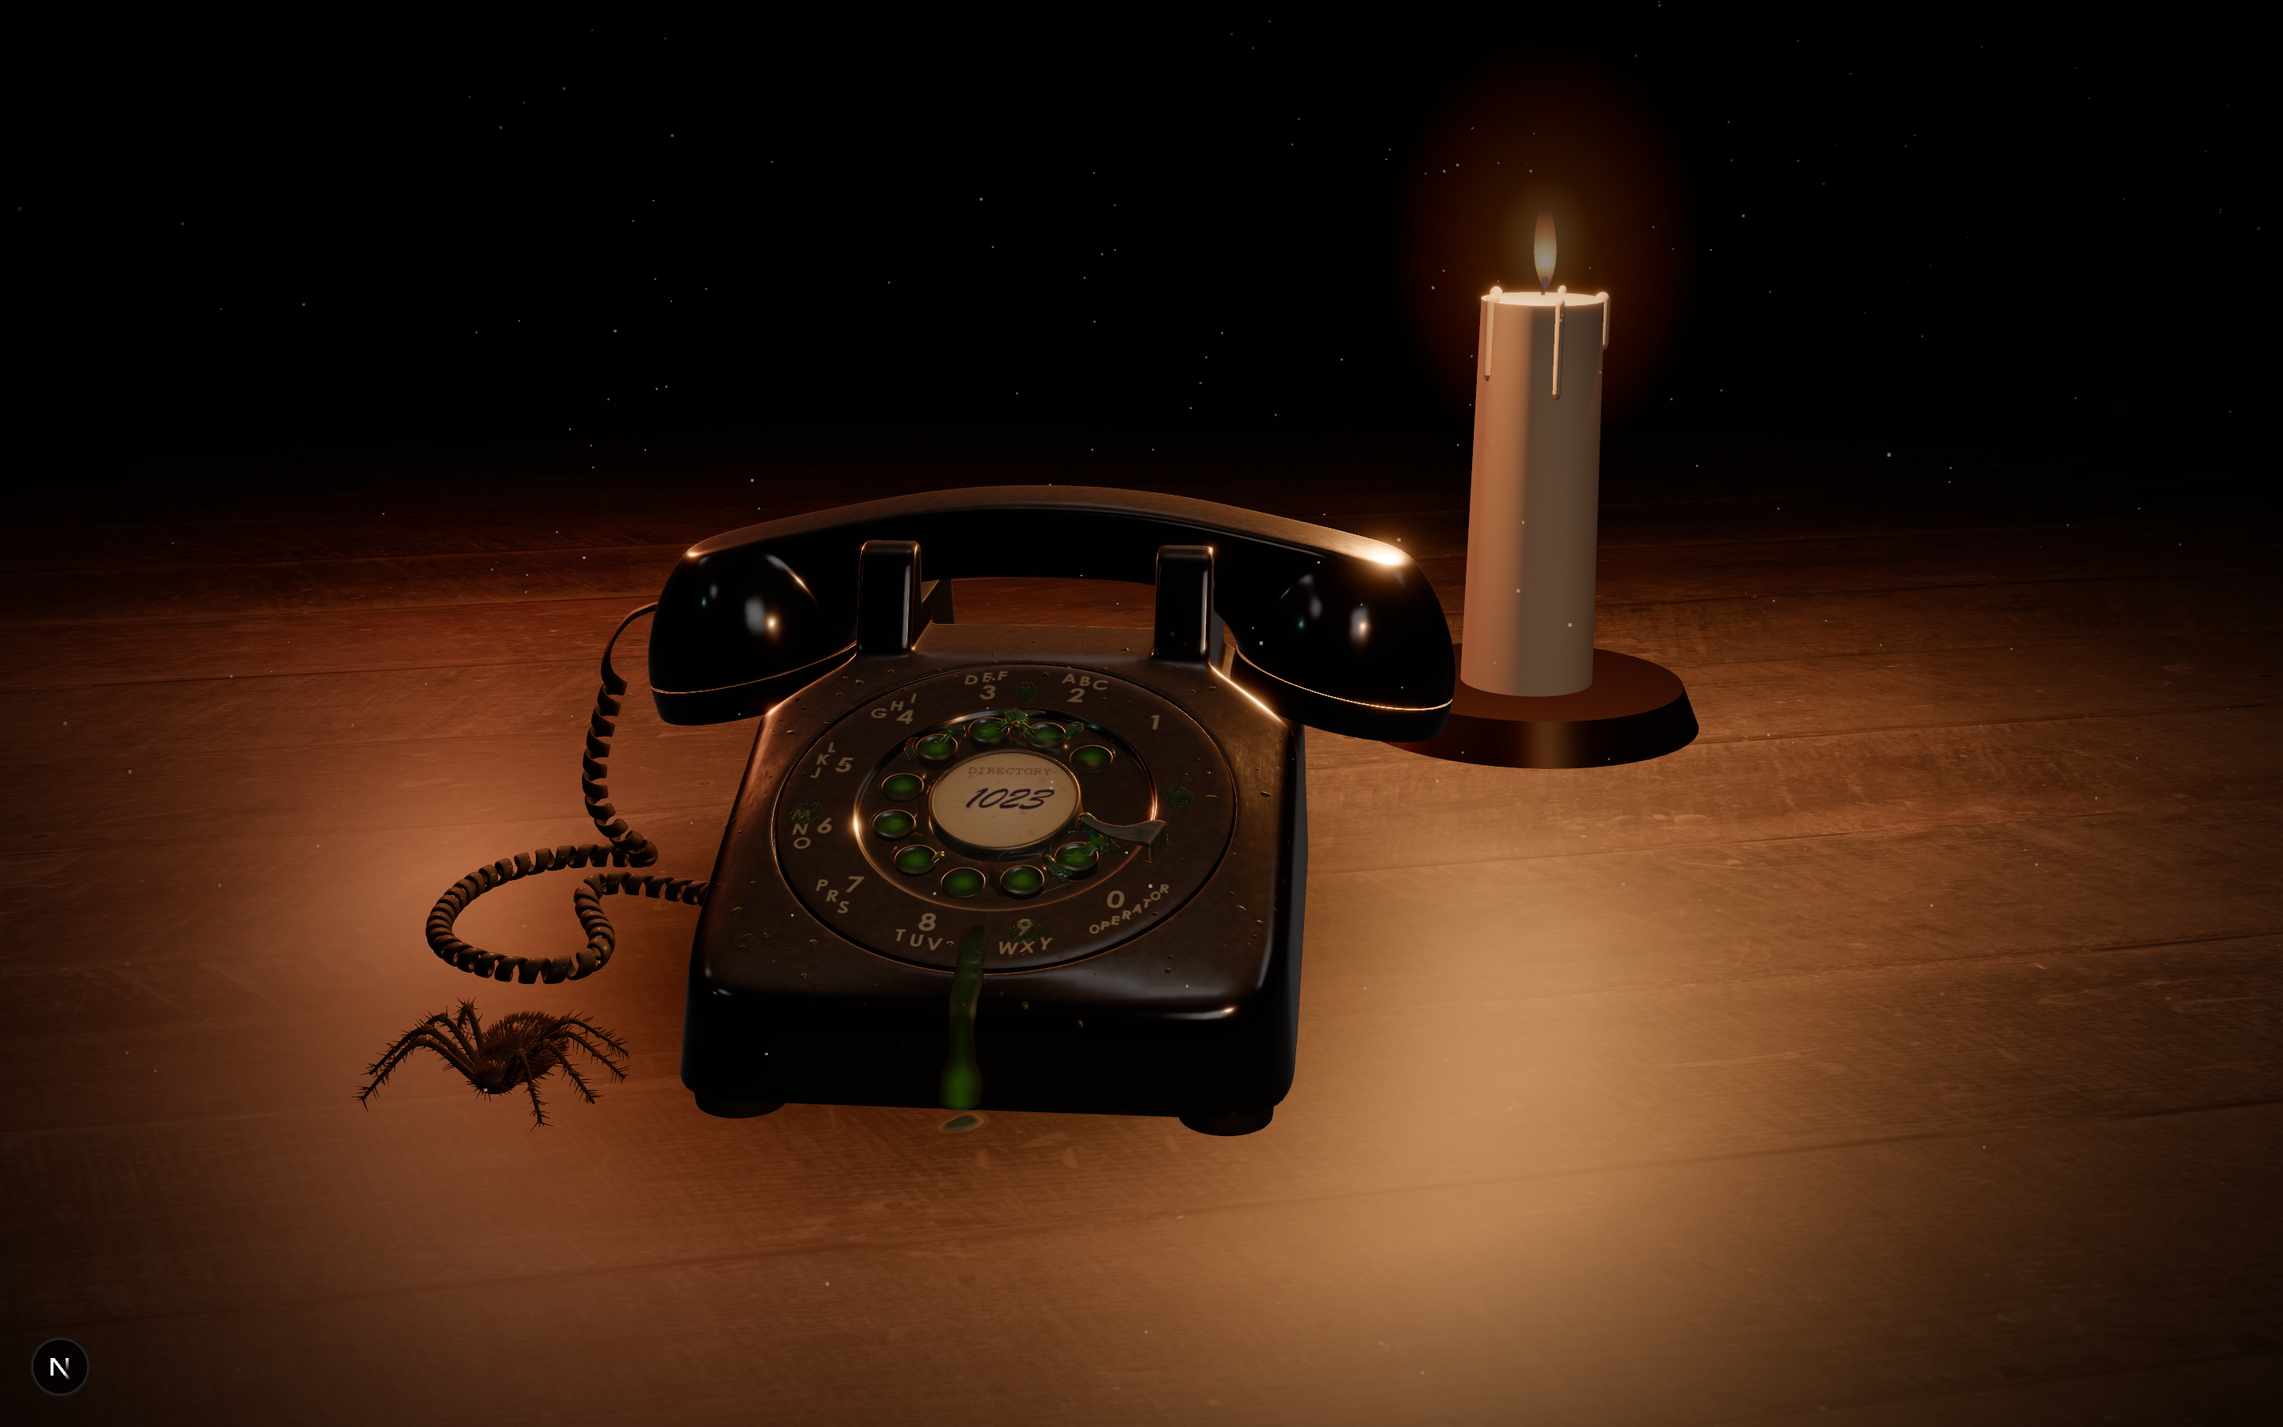
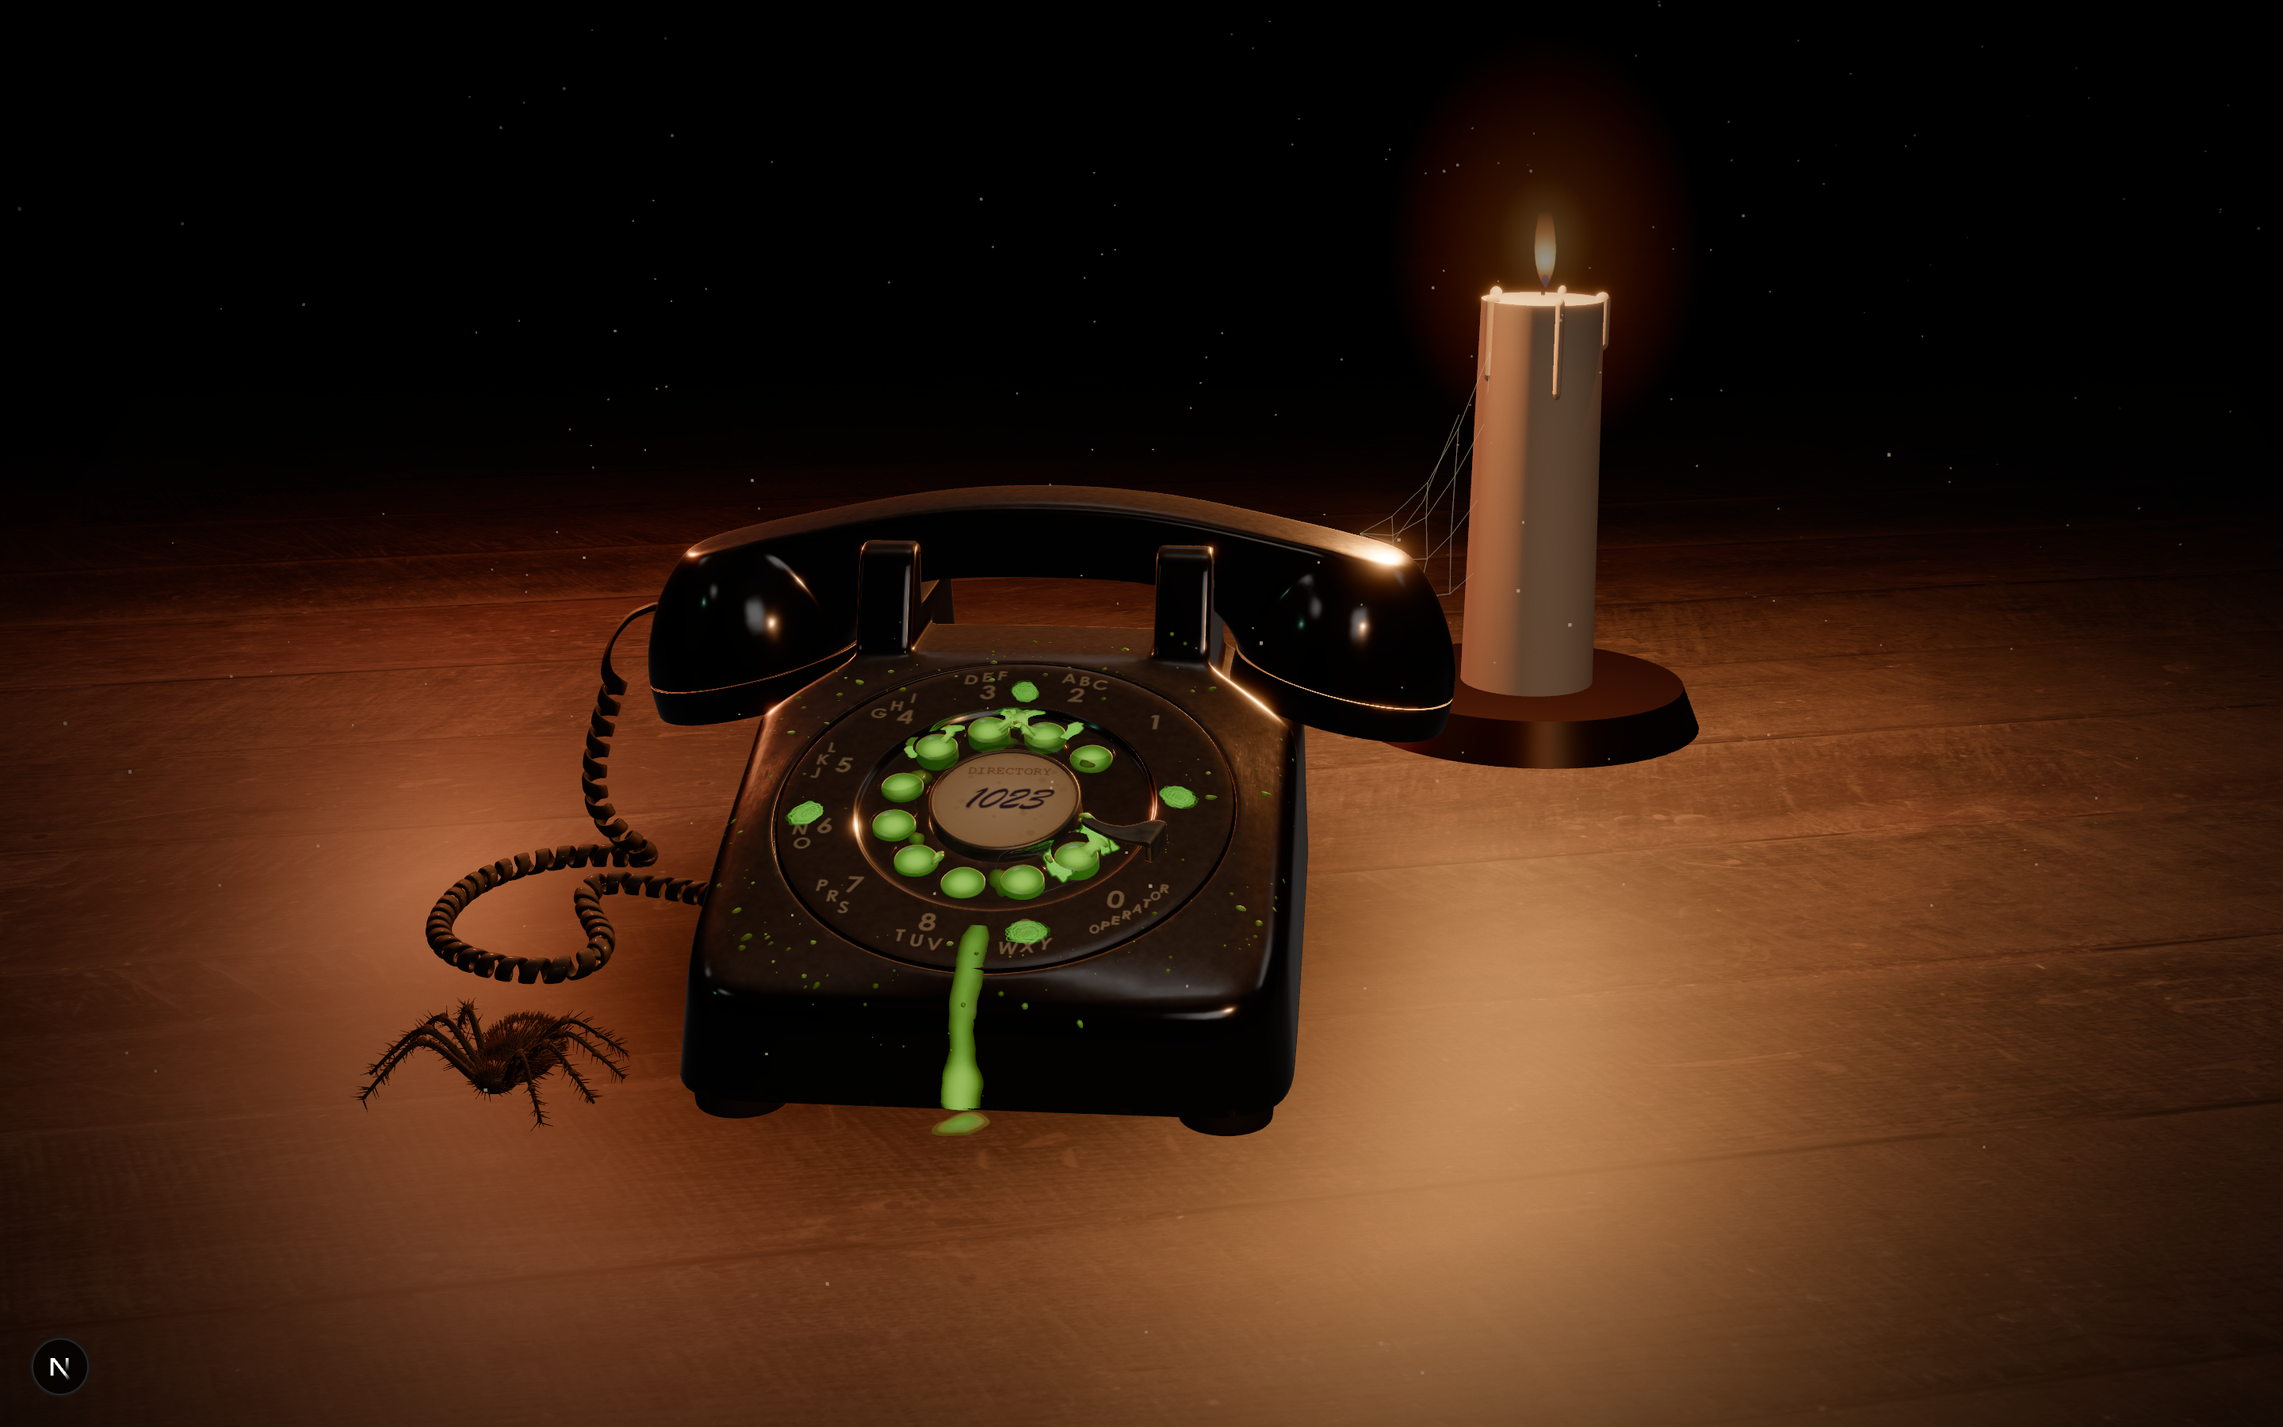
fix: keep painted goo off the card rim and find the card in render checks

Changed region(s): [[0.3438, 0.4667, 0.5312, 0.8089]]

diff --git a/scripts/greenShapes.ts b/scripts/greenShapes.ts
@@ -13,6 +13,8 @@ export type Shape = {
   aspect: number;
   cx: number;
   cy: number;
+  /** Cut by the edge of the shot, so its true outline is unknown. */
+  edge: boolean;
 };
 
 /** Slime green: clearly greener than red or blue, and not black. Orange candle glints and brown wood do not pass. */
@@ -46,10 +48,12 @@ export function greenShapes(image: Raster, minArea: number): Shape[] {
     let sxx = 0;
     let syy = 0;
     let sxy = 0;
+    let edge = false;
     while (stack.length) {
       const at = stack.pop() as number;
       const x = at % width;
       const y = (at - x) / width;
+      if (x === 0 || y === 0 || x === width - 1 || y === height - 1) edge = true;
       area++;
       sx += x;
       sy += y;
@@ -79,24 +83,94 @@ export function greenShapes(image: Raster, minArea: number): Shape[] {
     const gap = Math.sqrt(((a - d) / 2) ** 2 + b * b);
     const long = mid + gap;
     const short = Math.max(mid - gap, 1e-9);
-    shapes.push({ area, aspect: Math.sqrt(long / short), cx, cy });
+    shapes.push({ area, aspect: Math.sqrt(long / short), cx, cy, edge });
   }
   return shapes;
 }
 
-/** How many green pixels fall inside an ellipse. Used to check the slime stays off the centre card. */
-export function greenInside(
-  image: Raster,
-  ellipse: { cx: number; cy: number; rx: number; ry: number },
-): number {
-  const mask = greenMask(image);
-  let count = 0;
-  for (let y = 0; y < image.height; y++) {
-    for (let x = 0; x < image.width; x++) {
-      const inside =
-        ((x - ellipse.cx) / ellipse.rx) ** 2 + ((y - ellipse.cy) / ellipse.ry) ** 2 <= 1;
-      if (inside && mask[y * image.width + x]) count++;
+/** The card's warm cream face. The black ink and the dark wood around it do not pass. */
+function isCardFace(r: number, g: number, b: number): boolean {
+  return r > 100 && r > g && g > b && r - b > 25;
+}
+
+/**
+ * The card as it lies in the shot: its face flood filled from `seed`, with every row and column
+ * span closed so the ink counts as card, then grown by `rim` pixels to take in the card's rim.
+ * Taken from the shot itself so it follows the perspective of the camera, which a fixed ellipse
+ * cannot: the far half of the card is narrower than the near half.
+ */
+export function cardMask(image: Raster, seed: { x: number; y: number }, rim: number): Uint8Array {
+  const { width, height, data } = image;
+  const face = new Uint8Array(width * height);
+  const stack = [seed.y * width + seed.x];
+  face[stack[0] as number] = 1;
+  while (stack.length) {
+    const at = stack.pop() as number;
+    const x = at % width;
+    const y = (at - x) / width;
+    for (const next of [
+      x > 0 ? at - 1 : -1,
+      x < width - 1 ? at + 1 : -1,
+      y > 0 ? at - width : -1,
+      y < height - 1 ? at + width : -1,
+    ]) {
+      const p = next * 4;
+      if (
+        next >= 0 &&
+        !face[next] &&
+        isCardFace(data[p] ?? 0, data[p + 1] ?? 0, data[p + 2] ?? 0)
+      ) {
+        face[next] = 1;
+        stack.push(next);
+      }
     }
   }
+  const closed = face.slice();
+  const fillSpans = (lines: number, along: number, index: (line: number, k: number) => number) => {
+    for (let line = 0; line < lines; line++) {
+      let first = -1;
+      let last = -1;
+      for (let k = 0; k < along; k++) {
+        if (face[index(line, k)]) {
+          if (first < 0) first = k;
+          last = k;
+        }
+      }
+      for (let k = first; first >= 0 && k <= last; k++) closed[index(line, k)] = 1;
+    }
+  };
+  fillSpans(height, width, (y, x) => y * width + x);
+  fillSpans(width, height, (x, y) => y * width + x);
+  const mask = new Uint8Array(width * height);
+  for (let y = 0; y < height; y++) {
+    for (let x = 0; x < width; x++) {
+      if (!closed[y * width + x]) continue;
+      for (let dy = -rim; dy <= rim; dy++) {
+        for (let dx = -rim; dx <= rim; dx++) {
+          const X = x + dx;
+          const Y = y + dy;
+          if (dx * dx + dy * dy <= rim * rim && X >= 0 && X < width && Y >= 0 && Y < height)
+            mask[Y * width + X] = 1;
+        }
+      }
+    }
+  }
+  return mask;
+}
+
+/**
+ * Where the card is in the render checks' dial close-up (1440 by 900 at 4x, clipped to the dial):
+ * a point on the face below the "1023", and the rim's width, about 12 shot pixels at top and bottom.
+ * A fixed ellipse used to stand in for the card, but it took in the gap round it, where the pools
+ * in the far holes show once the goo is bright.
+ */
+export const CLOSE_UP_CARD = { seed: { x: 456, y: 330 }, rim: 10 } as const;
+
+/** How many green pixels lie on the card, its face and rim, found from `seed` on the face. */
+export function greenOnCard(image: Raster, seed: { x: number; y: number }, rim: number): number {
+  const card = cardMask(image, seed, rim);
+  const green = greenMask(image);
+  let count = 0;
+  for (let i = 0; i < card.length; i++) if (card[i] && green[i]) count++;
   return count;
 }

diff --git a/scripts/greenShapes.test.ts b/scripts/greenShapes.test.ts
@@ -1,6 +1,6 @@
 // @vitest-environment node
 import { describe, it, expect } from 'vitest';
-import { greenInside, greenShapes, type Raster } from './greenShapes';
+import { greenOnCard, greenShapes, type Raster } from './greenShapes';
 
 /** A black image with green painted by `paint(x, y)`. */
 function image(width: number, height: number, paint: (x: number, y: number) => boolean): Raster {
@@ -42,6 +42,12 @@ describe('greenShapes', () => {
     expect(greenShapes(image(200, 200, paint), 200)).toHaveLength(2);
   });
 
+  it('marks a shape cut by the edge of the shot, and only that one', () => {
+    const paint = (x: number, y: number) => disc(100, 2, 30)(x, y) || disc(100, 120, 30)(x, y);
+    const shapes = greenShapes(image(200, 200, paint), 100);
+    expect(shapes.map((s) => s.edge).sort()).toEqual([false, true]);
+  });
+
   it('does not count grey, brown or orange as green', () => {
     const data = new Uint8Array(40 * 40 * 4);
     for (let i = 0; i < data.length; i += 4) {
@@ -54,16 +60,50 @@ describe('greenShapes', () => {
   });
 });
 
-describe('greenInside', () => {
-  const ellipse = { cx: 100, cy: 100, rx: 40, ry: 25 };
+/**
+ * A dark scene with a warm card: a disc of cream face, a dark ring of ink across it, and green
+ * painted by `paint`. The card is what flood fills from `seed`, so its shape follows the shot.
+ */
+function cardScene(paint: (x: number, y: number) => boolean): Raster {
+  const width = 200;
+  const height = 200;
+  const data = new Uint8Array(width * height * 4);
+  for (let y = 0; y < height; y++) {
+    for (let x = 0; x < width; x++) {
+      const i = (y * width + x) * 4;
+      const onCard = disc(100, 100, 50)(x, y);
+      const ink = onCard && y >= 95 && y <= 99 && x >= 70 && x <= 130;
+      const [r, g, b] = paint(x, y)
+        ? [40, 120, 20]
+        : ink
+          ? [30, 25, 40]
+          : onCard
+            ? [170, 130, 90]
+            : [30, 18, 10];
+      data[i] = r;
+      data[i + 1] = g;
+      data[i + 2] = b;
+      data[i + 3] = 255;
+    }
+  }
+  return { data, width, height };
+}
 
-  it('counts green inside the ellipse and nothing outside it', () => {
-    expect(greenInside(image(200, 200, disc(100, 100, 10)), ellipse)).toBeGreaterThan(250);
-    expect(greenInside(image(200, 200, disc(20, 20, 10)), ellipse)).toBe(0);
+describe('greenOnCard', () => {
+  const seed = { x: 100, y: 130 };
+
+  it('[Req 1.1] counts goo on the card face, including under the ink', () => {
+    const smear = (x: number, y: number) => y >= 94 && y <= 100 && x >= 80 && x <= 120;
+    expect(greenOnCard(cardScene(smear), seed, 4)).toBeGreaterThan(200);
   });
 
-  it('catches a drip that runs across the card', () => {
-    const drip = (x: number, y: number) => y >= 98 && y <= 102 && x >= 20 && x <= 120;
-    expect(greenInside(image(200, 200, drip), ellipse)).toBeGreaterThan(0);
+  it('[Req 1.1] counts goo on the rim just outside the face', () => {
+    const rim = (x: number, y: number) => disc(100, 100, 53)(x, y) && !disc(100, 100, 51)(x, y);
+    expect(greenOnCard(cardScene(rim), seed, 4)).toBeGreaterThan(0);
+  });
+
+  it('[Req 1.1] ignores goo in the holes beyond the rim', () => {
+    const pools = (x: number, y: number) => disc(100, 35, 8)(x, y) || disc(170, 100, 10)(x, y);
+    expect(greenOnCard(cardScene(pools), seed, 4)).toBe(0);
   });
 });

diff --git a/tests/e2e/dial-render.spec.ts b/tests/e2e/dial-render.spec.ts
@@ -1,14 +1,12 @@
 import { test, expect } from './quietPhone';
 import { PNG } from 'pngjs';
-import { greenInside, greenShapes } from '../../scripts/greenShapes';
+import { CLOSE_UP_CARD, greenOnCard, greenShapes } from '../../scripts/greenShapes';
 
 // A fixed viewport and pixel ratio, so the camera frames the dial the same way on every machine.
 test.use({ viewport: { width: 1440, height: 900 }, deviceScaleFactor: 4 });
 
 /** The dial close-up, in CSS pixels. The card and the finger holes are all inside it. */
 const DIAL = { x: 520, y: 440, width: 220, height: 160 };
-/** The cream card in the middle of the dial, with its brass rim, in pixels of the close-up (4x the CSS size). */
-const CARD = { cx: 456, cy: 260, rx: 200, ry: 134 };
 
 test('[render] the slime shows in every finger hole, as blobs, and stays off the centre card', async ({
   page,
@@ -33,10 +31,14 @@ test('[render] the slime shows in every finger hole, as blobs, and stays off the
 
   // The point of the green: every hole can be seen against the black phone. Some neighbours may merge.
   expect(shapes.length, 'green shapes in the dial').toBeGreaterThanOrEqual(8);
-  // Blobs, never wires. A round blob measures near 1, and a wire measures 6 or more.
-  for (const shape of shapes)
+  // Blobs, never wires. A round blob measures near 1, and a wire measures 6 or more. A pool cut
+  // by the edge of the close-up shows as a sliver, so only whole shapes are measured.
+  for (const shape of shapes.filter((s) => !s.edge))
     expect(shape.aspect, `shape at ${shape.cx.toFixed(0)},${shape.cy.toFixed(0)}`).toBeLessThan(4);
-  // No slime shows on the 1023 card.
-  expect(greenInside(close, CARD), 'green pixels on the card').toBe(0);
+  // No slime shows on the 1023 card, its face or its rim.
+  expect(
+    greenOnCard(close, CLOSE_UP_CARD.seed, CLOSE_UP_CARD.rim),
+    'green pixels on the card',
+  ).toBe(0);
   expect(problems).toEqual([]);
 });

diff --git a/components/PhoneCanvas/gooDecals.ts b/components/PhoneCanvas/gooDecals.ts
@@ -39,8 +39,11 @@ export type DecalSpace = { extent: number; size: number };
 export const STROKE_REACH = 1.3;
 /** Prints are ellipses of ridges inside their size, with a little smudge. */
 export const PRINT_REACH = 1.15;
-/** Nothing is painted closer to the card than this. */
-const CARD_MARGIN = 0.001;
+/**
+ * Nothing is painted closer to the card than this. The wheel's face stands above the card, so
+ * from the camera paint less than this far out lands on the card's rim.
+ */
+const CARD_MARGIN = 0.0025;
 
 const TAU = Math.PI * 2;
 const lerp = (a: number, b: number, t: number) => a + (b - a) * t;
@@ -157,7 +160,7 @@ export function planWheelFilm({
     const a0 = ((((Math.atan2(opening.y, opening.x) * 180) / Math.PI) % 360) + 360) % 360;
     // Most fingers drag round the outside of the ring, one round the inside near the card.
     const inside = n === 1;
-    const band = inside ? cardRadius + 0.0026 : dialRadius * 0.95;
+    const band = inside ? cardRadius + CARD_MARGIN + 0.0011 : dialRadius * 0.95;
     const start = r0 + (inside ? -1 : 1) * opening.radius * 0.85;
     const span = lerp(20, 36, random());
     const ridges = 5 + Math.floor(random() * 3);

diff --git a/tests/render/goo-horror.spec.ts b/tests/render/goo-horror.spec.ts
@@ -1,12 +1,11 @@
 import { test, expect, type Page } from '@playwright/test';
 import { PNG } from 'pngjs';
-import { greenInside } from '../../scripts/greenShapes';
+import { CLOSE_UP_CARD, greenOnCard } from '../../scripts/greenShapes';
 
 /** The same close-up as the other render checks, so the shots line up. */
 const DIAL = { x: 520, y: 440, width: 220, height: 160 };
 /** The run down the front of the phone and the puddle at its foot. */
 const RUN = { x: 560, y: 555, width: 110, height: 180 };
-const CARD = { cx: 456, cy: 260, rx: 200, ry: 134 };
 const OUT = 'assets-src/renders';
 
 async function open(page: Page, url: string, problems: string[]) {
@@ -46,7 +45,8 @@ test.describe('close-ups', () => {
       const problems: string[] = [];
       await open(page, url, problems);
       const shot = await page.screenshot({ clip: DIAL, path: `${OUT}/goo-horror-${name}.png` });
-      expect(greenInside(PNG.sync.read(shot), CARD), 'green pixels on the card').toBe(0);
+      const card = greenOnCard(PNG.sync.read(shot), CLOSE_UP_CARD.seed, CLOSE_UP_CARD.rim);
+      expect(card, 'green pixels on the card').toBe(0);
       expect(problems).toEqual([]);
     });
   }

diff --git a/tests/render/goo-check.spec.ts b/tests/render/goo-check.spec.ts
@@ -1,12 +1,11 @@
 import { test, expect } from '@playwright/test';
 import { PNG } from 'pngjs';
-import { greenInside } from '../../scripts/greenShapes';
+import { CLOSE_UP_CARD, greenOnCard } from '../../scripts/greenShapes';
 
 // The same framing as the main render check, so the close-ups line up.
 test.use({ viewport: { width: 1440, height: 900 }, deviceScaleFactor: 4 });
 
 const DIAL = { x: 520, y: 440, width: 220, height: 160 };
-const CARD = { cx: 456, cy: 260, rx: 200, ry: 134 };
 
 for (const wheel of [0, 90, 200]) {
   test(`[render] the dial close-up with the wheel turned ${wheel} degrees`, async ({ page }) => {
@@ -25,7 +24,8 @@ for (const wheel of [0, 90, 200]) {
       path: `assets-src/renders/goo-check-${wheel}.png`,
     });
     // No pool, smear or drip crosses the centre card, whatever the wheel angle.
-    expect(greenInside(PNG.sync.read(shot), CARD), 'green pixels on the card').toBe(0);
+    const card = greenOnCard(PNG.sync.read(shot), CLOSE_UP_CARD.seed, CLOSE_UP_CARD.rim);
+    expect(card, 'green pixels on the card').toBe(0);
     expect(problems).toEqual([]);
   });
 }

diff --git a/components/PhoneCanvas/gooDecals.test.ts b/components/PhoneCanvas/gooDecals.test.ts
@@ -74,7 +74,8 @@ describe('planWheelFilm', () => {
   it('[Req 1.1] keeps every stroke on the wheel and off the 1023 card', () => {
     for (const stroke of film.strokes) {
       const { inner, outer } = strokeRadii(stroke);
-      expect(inner, stroke.kind).toBeGreaterThan(CARD + 0.001);
+      // Seen from the camera, paint within 2.5 mm of the card lands on its rim.
+      expect(inner, stroke.kind).toBeGreaterThan(CARD + 0.0025);
       expect(outer, stroke.kind).toBeLessThanOrEqual(R);
     }
   });
